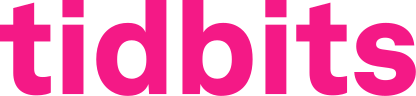
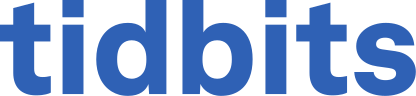
Explore Tidbits in cobalt

diff --git a/src/styles/globals.css b/src/styles/globals.css
@@ -110,11 +110,11 @@
   --color-offwhite-cool: #f5f6fa;
   --color-offwhite-dark: #edebe7;
   --color-offwhite-light: #faf9f7;
-  --color-tidbits: #f41986;
-  --color-tidbits-ink: #c80f6b;
-  /* Oaxaca blanket blush: sampled from its pale rose squares and lifted so
-     photography stays dominant. */
-  --color-tidbits-paper: #f6eae9;
+  --color-tidbits: #2f61b5;
+  --color-tidbits-ink: #254a88;
+  /* Cobalt paper: a cool blue-hour tint, kept pale so photography stays
+     dominant. */
+  --color-tidbits-paper: #e9eef7;
 
   /* Grays */
   --color-gray-50: #f2f2f1; /* alias: keeps the un-padded spelling warm */
@@ -553,9 +553,9 @@ body:has(> * [data-bg="tidbits"]) {
   transform: none;
 }
 
-/* Post-page subscription buttons inherit the newsletter identity from the
-   surrounding page. Tidbits's vivid cochineal takes dark ink; the writing
-   newsletters retain the light ink supplied by btn-primary. */
+/* Post-page subscription buttons inherit the newsletter identity. Tidbits
+   chooses a contrast-safe foreground for its primary; the writing newsletters
+   retain the light ink supplied by btn-primary. */
 [data-bg] .btn-newsletter {
   background-color: var(--prose-accent, var(--color-gray-950));
   border-color: var(--prose-accent, var(--color-gray-950));
@@ -564,12 +564,12 @@ body:has(> * [data-bg="tidbits"]) {
 [data-bg="tidbits"] .btn-newsletter {
   background-color: var(--color-tidbits);
   border-color: var(--color-tidbits);
-  color: var(--color-gray-950);
+  color: var(--color-white);
 }
 
 [data-bg="tidbits"] .btn-newsletter .btn-text,
 [data-bg="tidbits"] .btn-newsletter .btn-arrow {
-  color: var(--color-gray-950);
+  color: var(--color-white);
 }
 
 /* ============================
@@ -710,7 +710,7 @@ body:has(> * [data-bg="tidbits"]) {
   --prose-accent: var(--color-indigo);
 }
 [data-bg="tidbits"] {
-  /* The brand cochineal remains exact in marks and decoration; this darker
+  /* The brand primary remains exact in marks and decoration; this darker
      companion keeps linked text readable on Tidbits's pale background. */
   --prose-accent: var(--color-tidbits-ink);
 }

diff --git a/src/lib/email/__tests__/templates-dark-mode.test.ts b/src/lib/email/__tests__/templates-dark-mode.test.ts
@@ -41,7 +41,7 @@ describe('newsletter shell dark mode', () => {
       contraption: '#8FB8A5',
       workshop: '#C29B7E',
       postcard: '#97A8D9',
-      tidbits: '#F41986',
+      tidbits: '#8DACED',
     } as const
     for (const [newsletter, accent] of Object.entries(darkAccents)) {
       const html = renderNewsletterShell({
@@ -104,16 +104,16 @@ describe('newsletter shell dark mode', () => {
     )
   })
 
-  it('renders tidbits with its photo shell and lowercase cochineal wordmark', () => {
+  it('renders tidbits with its photo shell and colored wordmark', () => {
     const html = renderNewsletterShell({
       ...baseInput,
       newsletter: 'tidbits',
     })
     expect(html).toContain(
-      '<body class="email-body" style="margin: 0; padding: 0; background-color: #f6eae9;">'
+      '<body class="email-body" style="margin: 0; padding: 0; background-color: #e9eef7;">'
     )
     expect(html).toContain(
-      'class="email-card email-card-tidbits" border="0" cellpadding="0" cellspacing="0" width="100%" style="max-width: 600px; background-color: #f6eae9;"'
+      'class="email-card email-card-tidbits" border="0" cellpadding="0" cellspacing="0" width="100%" style="max-width: 600px; background-color: #e9eef7;"'
     )
     expect(html).toContain(
       '<td class="content-cell content-cell-tidbits" style="padding: 0 32px 32px;'

diff --git a/src/lib/email/__tests__/content-transforms.test.ts b/src/lib/email/__tests__/content-transforms.test.ts
@@ -160,11 +160,11 @@ describe('styleContentLinks', () => {
     )
   })
 
-  it('styles links with the Tidbits cochineal', () => {
+  it('styles links with the Tidbits primary', () => {
     expect(
       styleContentLinks('<a href="https://example.com">link</a>', 'tidbits')
     ).toBe(
-      '<a style="color: #3B3834; text-decoration: underline; text-decoration-color: #f41986; text-underline-offset: 2px;" href="https://example.com">link</a>'
+      '<a style="color: #3B3834; text-decoration: underline; text-decoration-color: #2f61b5; text-underline-offset: 2px;" href="https://example.com">link</a>'
     )
   })
 

diff --git a/src/lib/email/templates/newsletter-shell.ts b/src/lib/email/templates/newsletter-shell.ts
@@ -15,7 +15,7 @@ const darkAccentColors: Record<NewsletterSlug, string> = {
   contraption: '#8FB8A5',
   workshop: '#C29B7E',
   postcard: '#97A8D9',
-  tidbits: '#F41986',
+  tidbits: '#8DACED',
   tsundoku: '#FF7A82',
 }
 const DEFAULT_DARK_ACCENT = '#A8A49D'
@@ -23,7 +23,7 @@ const backgroundColors: Record<NewsletterSlug, string> = {
   contraption: '#ffffff',
   workshop: '#ffffff',
   postcard: '#ffffff',
-  tidbits: '#f6eae9',
+  tidbits: '#e9eef7',
   tsundoku: '#f4f4f2',
 }
 

diff --git a/src/components/posts/newsletter-accent.ts b/src/components/posts/newsletter-accent.ts
@@ -2,8 +2,8 @@ import type { Newsletter } from '@/lib/content/types'
 
 /**
  * Newsletter accent color applied to text on `group` hover: forest for
- * Contraption, walnut for Workshop, indigo for Postcard, cochineal for
- * tidbits, and sun for Tsundoku.
+ * Contraption, walnut for Workshop, indigo for Postcard, the darker brand
+ * ink for tidbits, and sun for Tsundoku.
  */
 export const accentHoverText: Record<Newsletter, string> = {
   contraption: 'group-hover:text-forest',

diff --git a/src/app/printing-press/page.tsx b/src/app/printing-press/page.tsx
@@ -51,7 +51,7 @@ export default async function OverviewPage() {
               <cite className="text-forest">Contraption</cite>{' '}
               {n(stats.contraption)},{' '}
               <cite className="text-walnut">Workshop</cite> {n(stats.workshop)},
-              and <cite className="text-tidbits">tidbits</cite>{' '}
+              and <cite className="text-tidbits-ink">tidbits</cite>{' '}
               {n(stats.tidbits)}.
             </>
           )}

diff --git a/src/lib/seo/newsletter-social-image.tsx b/src/lib/seo/newsletter-social-image.tsx
@@ -15,7 +15,7 @@ const NEWSLETTER_SOCIAL_BACKGROUNDS = {
   contraption: '#f2f2f1',
   workshop: '#f3f0e9',
   postcard: '#f5f6fa',
-  tidbits: '#f6eae9',
+  tidbits: '#e9eef7',
   tsundoku: '#f4f4f2',
 } as const satisfies Record<Newsletter, string>
 

diff --git a/src/lib/email/content-transforms.ts b/src/lib/email/content-transforms.ts
@@ -8,7 +8,7 @@ const accentColors: Record<NewsletterSlug, string> = {
   contraption: '#2b4a3e',
   workshop: '#6b4d3a',
   postcard: '#2c3e6b',
-  tidbits: '#f41986',
+  tidbits: '#2f61b5',
   tsundoku: '#e20612',
 }
 const DEFAULT_ACCENT = '#3B3834'

diff --git a/src/lib/seo/newsletter-social-image.test.ts b/src/lib/seo/newsletter-social-image.test.ts
@@ -31,7 +31,7 @@ const EXPECTED = {
   },
   tidbits: {
     alt: 'tidbits wordmark',
-    background: '#f6eae9',
+    background: '#e9eef7',
     logoPath: '/images/tidbits.svg',
     logoWidth: 504,
     logoHeight: 116,
